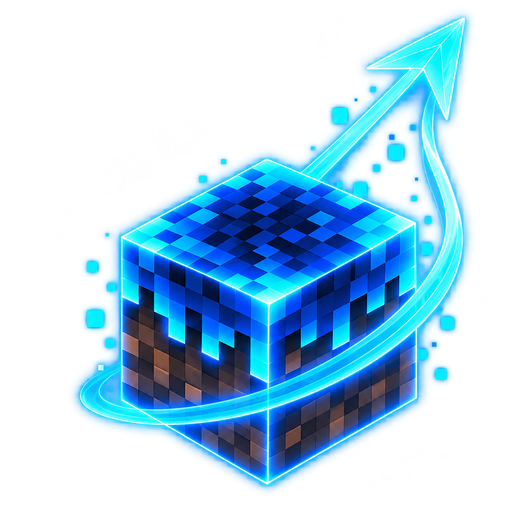
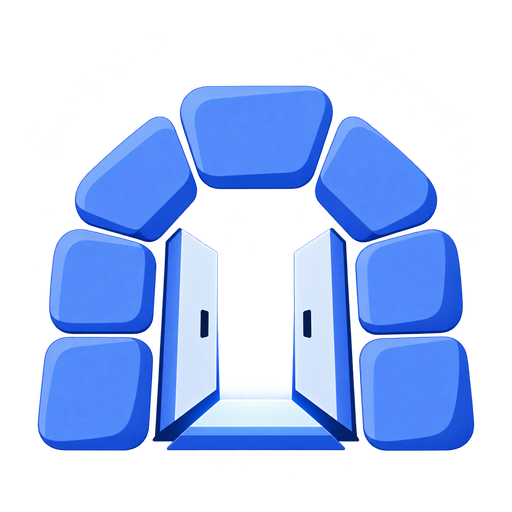
feat: preview open-gateway launcher branding

diff --git a/launcher-desktop/src/main/kotlin/pl/syntaxdevteam/syntaxlauncher/desktop/ui/LauncherArtwork.kt b/launcher-desktop/src/main/kotlin/pl/syntaxdevteam/syntaxlauncher/desktop/ui/LauncherArtwork.kt
@@ -103,7 +103,7 @@ internal fun LauncherHero(version: String?, profile: String?, snapshots: Boolean
                     center = center, radius = size.width * 0.66f),
                     radius = size.width * 0.66f, center = center)
                 drawCircle(Brush.radialGradient(
-                    listOf(SyntaxBrand.cyan.copy(alpha = 0.13f), Color.Transparent),
+                    listOf(SyntaxBrand.markBlue.copy(alpha = 0.13f), Color.Transparent),
                     center = center, radius = size.width * 0.52f),
                     radius = size.width * 0.52f, center = center)
             }) {

diff --git a/launcher-desktop/src/main/kotlin/pl/syntaxdevteam/syntaxlauncher/desktop/ui/SyntaxTheme.kt b/launcher-desktop/src/main/kotlin/pl/syntaxdevteam/syntaxlauncher/desktop/ui/SyntaxTheme.kt
@@ -20,6 +20,7 @@ internal object SyntaxBrand {
     val border = Color(0xFF135582)
     val fieldBorder = Color(0xFF284967)
     val cyan = Color(0xFF00D5FF)
+    val markBlue = Color(0xFF779CF6)
     val blue = Color(0xFF009EF4)
     val playStart = Color(0xFF34D7F5)
     val playBorder = Color(0xFF88EFFF)

diff --git a/docs/DESIGN.md b/docs/DESIGN.md
@@ -1,6 +1,6 @@
 # SyntaxLauncher Design Guidelines
 
-**22 October 2026:** Gameplay requires Microsoft authentication and current Java entitlement/profile verification. Keep Play disabled without a saved verified Microsoft profile; no nickname-only choice. Show Privacy/Terms before consent, direct contact and an independence notice in the player/settings panel. Preserve the original launcher logo at the maintainer’s request; an unconfirmed branding concern does not authorize a redesign. Preserve the simple content catalog and existing worlds.
+**22 October 2026:** Gameplay requires Microsoft authentication and current Java entitlement/profile verification. Keep Play disabled without a saved verified Microsoft profile; no nickname-only choice. Show Privacy/Terms before consent, direct contact and an independence notice in the player/settings panel. Following explicit maintainer selection, preview the blue open-gateway mark described below; this supersedes the earlier instruction to retain the block/orbit logo. Preserve the simple content catalog and existing worlds.
 
 This document defines the mandatory visual and interaction principles for SyntaxLauncher.
 
@@ -163,7 +163,7 @@ The final brand palette may evolve, but the application should never become visu
 
 ### SyntaxLauncher blue identity (October 2026)
 
-The approved mark is a voxel dirt/grass block with a navy/cobalt/cyan top and an upward blue orbital arrow. It should appear in desktop branding and distribution artwork.
+The maintainer-selected desktop mark is a rounded cornflower-blue stone arch with two open pale-blue doors and a bright threshold. The main hero, header, window, startup updater and Linux package icon share this identity. The mark uses cornflower `#779CF6`, royal blue and icy white, without green/teal or an orbital arrow. Existing interface accents remain unchanged during this in-app branding preview. Website and Entra artwork are outside this change; their earlier submitted logo remains a historical review record.
 
 | UI role | Token |
 | --- | --- |
@@ -182,9 +182,9 @@ Panels use restrained `#0C2444 → #08192E` depth, with `#135582` outlines. The 
 
 ### Desktop hero and responsive shell (October 2026)
 
-- The hero uses a local cinematic voxel valley JPEG plus a separate transparent PNG of the blue block/orbit/arrow. Both were generated with the built-in imagegen tool from the approved reference; see [asset provenance and prompts](../launcher-desktop/src/main/resources/branding/README.md). The landscape deliberately has no logo, pre-rendered labels or UI controls. Avoid upscaling a tiny 128px app icon into hero artwork; that produced visibly blurry results. The source screenshot is not rendered as a UI screenshot. All controls remain native Compose.
+- The hero uses a local cinematic voxel valley JPEG plus a separate transparent PNG of the selected open gateway. The background remains visible through the doorway and between stones. Both assets were generated with the built-in imagegen tool; see [asset provenance and prompts](../launcher-desktop/src/main/resources/branding/README.md). The landscape deliberately has no logo, pre-rendered labels or UI controls. Avoid upscaling a tiny 128px app icon into hero artwork; that produced visibly blurry results. The source screenshot is not rendered as a UI screenshot. All controls remain native Compose.
 - Preserve a left-to-right dark scrim. Text and the Minecraft version must stay readable independent of background artwork.
-- Position the foreground mark independently with `ContentScale.Fit` and derive its aspect ratio from the asset. Measure the heading/profile first and reserve disjoint rectangles: text on the left and logo on the right above 640 dp of hero width; below that width, put the logo below the heading and beside the profile. Fit both dimensions to the available space on every measurement, so resizing never crops its arrow, distorts the mark or places it underneath text. Compact, short heroes reduce the title and omit the secondary tagline to preserve the logo and profile. A soft static navy radial shadow and faint cyan halo distinguish it from the landscape without a rectangular backing, runtime blur or continuous animation. Use the bright mark and cyan secondary heading as the focal details; do not replicate glow throughout all controls.
+- Position the foreground mark independently with `ContentScale.Fit` and derive its aspect ratio from the asset. Measure the heading/profile first and reserve disjoint rectangles: text on the left and logo on the right above 640 dp of hero width; below that width, put the logo below the heading and beside the profile. Fit both dimensions to the available space on every measurement, so resizing never crops the arch or doors, distorts the mark or places it underneath text. Compact, short heroes reduce the title and omit the secondary tagline to preserve the logo and profile. A soft static navy radial shadow and faint cornflower-blue halo distinguish it from the landscape without a rectangular backing, runtime blur or continuous animation. Use the bright mark and cyan secondary heading as the focal details; do not replicate glow throughout all controls.
 - Use an application-wide Material `Surface` for proper light text over the dark theme. Do not depend on default `Text` content colors after drawing raw backgrounds.
 - The main window chooses an initial size constrained by the desktop work area. The instance panel is vertically scrollable, with a visible scrollbar; crucial controls should be visible without scrolling on typical full-HD screens.
 - Compact hero typography avoids text collisions. Below 760 dp of content width, stack the hero/Play and setup panel with a visible page scrollbar; otherwise keep Play visible and scroll the setup panel independently. Very short windows scroll the page as well. The minimum native window is 400 × 400. Never make unsupported future features appear as active navigation.
@@ -192,7 +192,7 @@ Panels use restrained `#0C2444 → #08192E` depth, with `#135582` outlines. The 
 
 ### Startup update screen
 
-Packaged startup uses the same brand palette and responsive block/arrow logo on a quiet background. Show one short phase message, indeterminate/proportional progress, and a secondary Continue action. Errors show an actionable summary with Retry and Continue. Continue cancels checking/downloading/extraction; disable it during child process handoff to prevent launching two home screens. Keep technical metadata out of this screen and keep file/network work on background dispatchers. Only compose the main home after continuing, finding no update, or receiving a verified child startup. Rendered recovery states and a real Compose startup receipt are part of regression coverage.
+Packaged startup uses the same brand palette and responsive open-gateway logo on a quiet background. Show one short phase message, indeterminate/proportional progress, and a secondary Continue action. Errors show an actionable summary with Retry and Continue. Continue cancels checking/downloading/extraction; disable it during child process handoff to prevent launching two home screens. Keep technical metadata out of this screen and keep file/network work on background dispatchers. Only compose the main home after continuing, finding no update, or receiving a verified child startup. Rendered recovery states and a real Compose startup receipt are part of regression coverage.
 
 ## 8. Typography
 

diff --git a/launcher-desktop/src/main/resources/branding/README.md b/launcher-desktop/src/main/resources/branding/README.md
@@ -1,20 +1,25 @@
-# Home artwork
+# Desktop open-gateway branding
 
-The home hero is composed from two independent local assets:
+## Selected desktop preview — 22 October 2026
 
-- `hero-landscape.jpg` — scenic background, 1862 × 845, optimized JPEG.
-- `hero-mark.png` — transparent block/orbit/arrow foreground, optimized PNG. Keep the alpha channel.
+The maintainer explicitly selected **Otwarte wrota / Open gates** from the gateway comparison board and requested an in-app preview. This supersedes the earlier instruction to keep the voxel block/orbit mark. The earlier artwork remains recoverable through Git history; public website/Entra assets have not been changed by this desktop task. Selection for an in-app preview does not constitute final trademark or broader platform acceptance.
 
-`LauncherArtwork.kt` positions the foreground independently of the scenery. A static radial navy shadow and a very faint cyan halo separate the mark from the landscape. The layout reads the mark’s intrinsic proportions and measures the copy before fitting the logo into its own remaining rectangle. Wide heroes place it to the right; compact heroes place it below the heading, beside the profile. The mark always fits inside the hero without overlapping text, including live resize and DPI changes. No background blur, animated lighting, network image fetch or screenshot of controls is involved. The window/header/Linux package icon `syntaxlauncher-icon.png` is a transparent 512 × 512 fit of the existing `hero-mark.png`, preserving its original design and aspect ratio (20 October 2026).
+- `hero-landscape.jpg` — existing independent cinematic voxel valley background, 1862 × 845; unchanged.
+- `hero-mark.png` — generated 1254 × 1254 RGBA open-gateway foreground: seven rounded blue stones, two pale-blue open doors and a bright threshold. The outside, gaps and doorway retain transparency; scenery can show through.
+- `syntaxlauncher-icon.png` — 512 × 512 RGBA export of the same mark, proportionally resized into 472 × 472 with transparent padding. Used by the header, native window, startup updater and Linux package.
+
+`LauncherArtwork.kt` keeps copy and mark in separate measured rectangles and derives the asset's aspect ratio. A static navy shadow and faint cornflower-blue halo provide separation from the scenery. No rasterized UI, wordmark, comparison-board background, runtime blur or network artwork is included. The logo's blue/icy-white palette removes the previously rejected greenish accent; existing interface colors are retained during this preview.
 
 ## Generation provenance
 
-Generated with the built-in imagegen tool on 19 October 2026, using the user-supplied “Neonowy interfejs SyntaxLaunchera” concept as visual reference. The attachment itself was not modified. A generated scenic concept was then separated into the two production layers below. Pillow operations were limited to compression and downsampling, preserving the mark's alpha channel.
+The open-gateway foreground was extracted/reproduced using the built-in imagegen tool from the center concept of the three-way gateway board on 22 October 2026. The generated square foreground was saved losslessly; Pillow was used only for PNG compression and proportion-preserving application-icon export, retaining alpha.
 
-Final background prompt:
+Final foreground prompt:
+
+> Edit target: attached three-column SyntaxLauncher concept board. Extract and reproduce ONLY the large CENTER logo labelled '02 / OTWARTE WROTA' as a production transparent PNG icon. Preserve its identity faithfully: seven chunky softly rounded cornflower-blue stone blocks form a squat arch, royal-blue right/bottom bevels, icy-white/pale-blue two door leaves swung open symmetrically into the dark passage, tiny dark rectangular handles, bright blue-white trapezoidal threshold with two blue steps beneath. Exact central reference design, front view, no redesign, no enclosing tile, no lettering. Remove ALL board background, labels, wordmarks, other logos, dividers, app tiles and frame. Genuine transparent alpha both outside arch and through open doorway and gaps between stones. The doorway must NOT retain rectangular navy background fill: only the two door leaves and threshold are solid inside arch. Preserve slight restrained blue light tightly around threshold only, no wide glow. Center the complete freestanding gateway mark on square transparent canvas with even ~7 percent padding, full arch and steps visible, no cropping. Medium-large high resolution bitmap suitable for a launcher hero foreground and 512px application icon. Colors blue #779CF6 royal #4273D9 pale #DBE7FF, no cyan teal turquoise mint green. NO text, no backdrop, no cast ground shadow.
+
+## Existing landscape provenance — 19 October 2026
+
+Generated with the built-in imagegen tool from the user-supplied “Neonowy interfejs SyntaxLaunchera” reference. The landscape and foreground were kept as independent layers. Its final background prompt was:
 
 > Edit target: supplied wide voxel landscape. Remove ONLY the large foreground blue cube, luminous orbit, upward arrow and their floating neon square particles from the right third. Fill their previous area naturally with the same continuous Minecraft voxel river, forested riverbank and mountains. Preserve the exact overall camera, landscape, lighting, dark left reading area, bright blue right sky, dimensions and detailed cinematic voxel render. This is a production background layer; the cube will be composited separately in native UI. No text, borders, logos, UI, lettering or new objects. Keep background subtly subdued behind where cube used to be, but still scenic.
-
-Final transparent foreground prompt:
-
-> Edit target: supplied illustration. Extract ONLY the blue voxel cube together with its sweeping neon cyan orbit and upward arrow from the right foreground. Preserve their exact identity, perspective, texture, blue/cyan neon colors and design. Remove ALL landscape, river, water reflections, vegetation, mountains, sky, background and text. Genuine transparent background. Show complete isolated cobalt pixelated grass/dirt cube with three faces and clean cyan luminous edge accents, the cyan orbital trail curves behind it and up into the full arrow at upper right. Keep a restrained faint cyan aura tight around the cutout, and a few nearby tiny blue pixels if needed. Tight portrait framing around full cube and arrow with 5% transparent padding; no clipping, no floor, no ground, no scene. This is a transparent foreground branding asset for composition over a separate landscape.

diff --git a/docs/WORKLOG.md b/docs/WORKLOG.md
@@ -8,6 +8,38 @@ Every code/build/documentation/CI task must add an entry according to `AGENTS.md
 
 ---
 
+## 2026-10-22 — Preview the selected open-gateway desktop identity
+
+**Milestone:** v0.1 — Desktop branding refinement
+**Author/Agent:** Codex
+**Status:** Completed — integration and local verification; maintainer visual acceptance pending
+
+### Completed
+- Implemented the maintainer-selected “Otwarte wrota” concept as a separate transparent high-resolution foreground, retaining the existing scenic hero background.
+- Exported the same gateway to the header/native window/startup/Linux package icon; changed only the foreground halo to cornflower blue, leaving the surrounding interface unchanged for comparison.
+- Retained responsive measured logo placement and intrinsic aspect ratio. Explicit selection in this conversation supersedes the earlier retain-original instruction.
+- Opened the actual production desktop entry point on Linux using the newly built application libraries, native rendering settings, Polish UI and isolated temporary preview state. Live version catalog and selected metadata loaded successfully. No account login or game launch was performed.
+
+### Changed files
+- `launcher-desktop/src/main/resources/branding/{hero-mark.png,syntaxlauncher-icon.png,README.md}` — gateway foreground/icon and exact generation provenance.
+- `launcher-desktop/src/main/kotlin/pl/syntaxdevteam/syntaxlauncher/desktop/ui/{LauncherArtwork,SyntaxTheme}.kt` — shared cornflower mark halo token.
+- `docs/{DESIGN,ROADMAP,WORKLOG}.md` — selected desktop preview, completed integration and remaining visual acceptance.
+
+### Verification
+- `./gradlew --offline test build :launcher-desktop:createDistributable` — PASS: 228 tests, 224 passed, four optional live smoke tests skipped; no failures/errors. Core tasks reused unchanged verified outputs; desktop tests reran and Linux app image rebuilt.
+- Existing Compose render/layout regressions — PASS, including 27 live-resize/density combinations and wide/compact/translated screens. Inspected 1440×810 and 1024×640 renders: complete gateway, no heading/profile overlap and scenery visible through the doorway.
+- Native Linux launch — PASS: actual 1440×840 window opened with the new mark; live metadata loaded. The first direct invocation lacked the packaged Skiko library path; adding the app image's native/resource settings corrected the invocation without changing application code.
+- Native screen capture — unavailable: desktop screen-capture permission was denied. Delivered production Compose render instead of claiming it is a native window screenshot; actual preview window remains available on the desktop.
+- `git diff --check` — checked before commit. Commit/push/hosted CI outcome reported in chat after publication.
+
+### Roadmap updates
+- `[x] v0.1 / UI / selected open-gateway integration and local verification`
+- `[ ] v0.1 / UI / maintainer visual acceptance and broader Windows/macOS package/DPI review`
+
+### Follow-ups / known issues
+- This is the requested in-app visual preview, not a new release/version, website/Entra branding change, or trademark clearance.
+- The surrounding cyan interface palette remains available for a separate coherent color review after evaluating the gateway in context.
+
 ## 2026-10-22 — Complete public policies, Entra metadata and renewed AppID submission
 
 **Milestone:** v0.3 — Application review

diff --git a/docs/ROADMAP.md b/docs/ROADMAP.md
@@ -180,6 +180,9 @@ Goal: launch a selected vanilla Minecraft version using an offline account and a
 
 ## v0.1 UI
 
+- [x] Integrate the explicitly selected open-gateway mark into hero/header/window/startup and Linux icon, preserving transparency and responsive proportions. Local test/build/Linux image and wide/compact Compose renders pass (22 October 2026). Native preview and final maintainer visual acceptance are tracked separately below.
+- [ ] Review the open-gateway branding preview with the maintainer after inspecting the actual Linux window; broader Windows/macOS package/DPI checks remain open.
+
 - [x] Replace the old small header/window/Linux icon with a proportion-preserving export of the existing approved hero logo (20 October 2026); original hero retained, local `test build` and Compose render review passed. Native package appearance remains a separate open acceptance gate.
 
 - [x] Make the launcher logo respond to the measured hero/text space and original asset aspect ratio: reserve separate text/logo areas, reflow below the heading in narrow heroes, and verify 27 resize/density cases without cropping, distortion or text collisions (19 October 2026).
